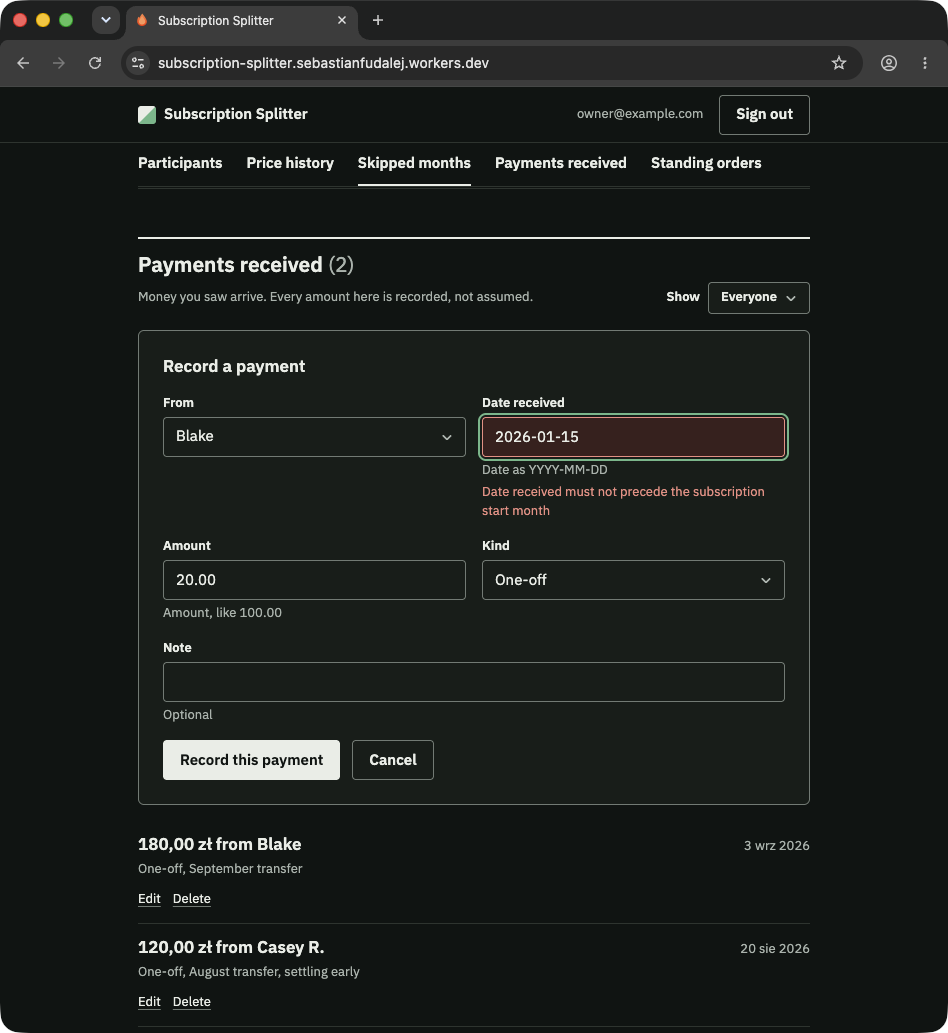
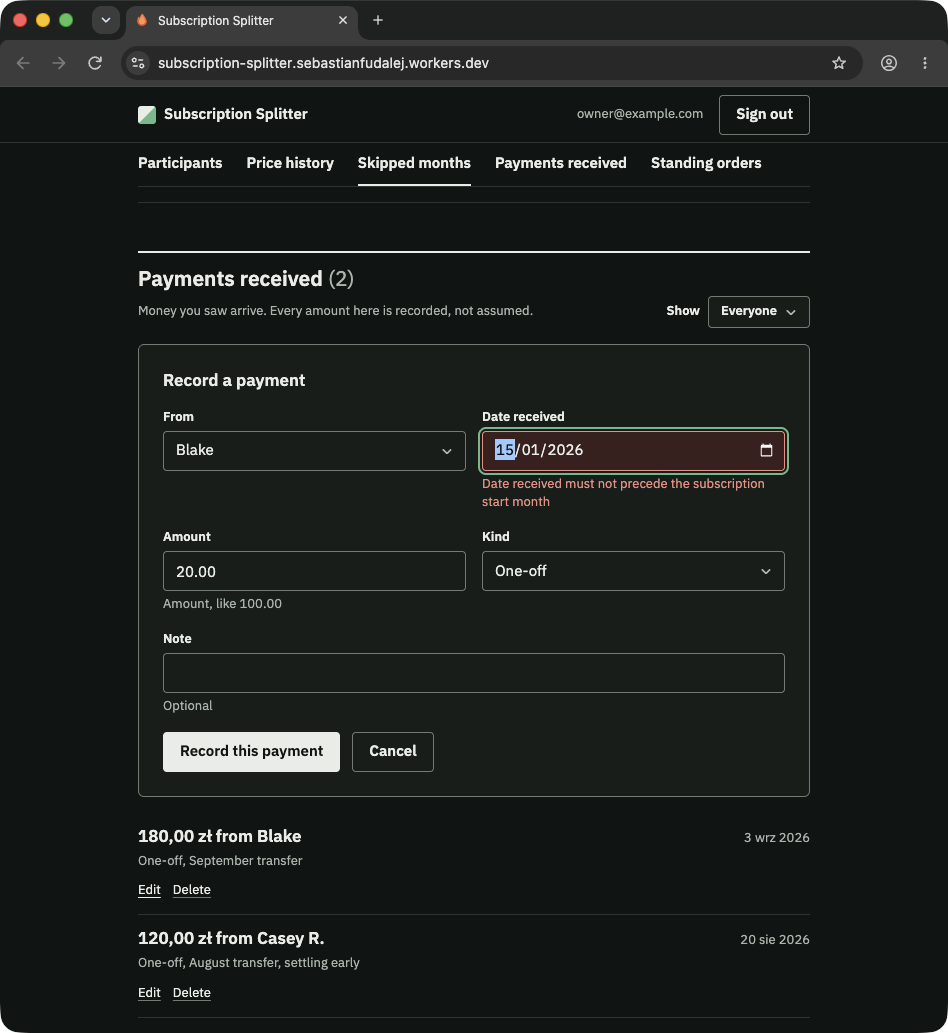
docs(evidence): refresh certification captures for release 5
Claude-Session: https://claude.ai/code/session_01MFSG2RJrQ2hG8y7R7VLiyG

diff --git a/evidence/runs/release-5-captures.md b/evidence/runs/release-5-captures.md
@@ -1,0 +1,78 @@
+# Release 5: refreshing the certification captures
+
+`docs/SUBMISSION-PACKAGE.md` section 10 lists ten certification captures. `evidence/runs/release-5.md`
+names five of them as showing a screen that change `S-08 subscription-management-and-date-inputs`
+alters. This pass retook those five against release 5 and left the other five alone, because the
+screens they show are unchanged.
+
+- **Release SHA**: `91ce0daa469df960097398ce756730f97845e647` (`91ce0da`)
+- **Cloudflare version**: `751a8bfd-e62a-4c9a-beb2-1953eb6a7656`, superseding release 4's
+  `1d0f71c1-6832-4bc1-aace-5feef621e715`
+- **Live URL**: https://subscription-splitter.sebastianfudalej.workers.dev
+
+## The served bundle is release 5's
+
+Read from inside the page that was captured, rather than from a separate request made elsewhere:
+
+```
+GET /  (cache: no-store)          200
+assets referenced by index.html   /assets/index-D-QEf8bX.js, /assets/index-CtqqFhDM.css
+```
+
+Those are the two content-addressed names release 5's own clean-clone build emitted and the deploy
+uploaded, both recorded in `evidence/runs/release-5.md`. Release 4's bundle carries neither. The four
+browser captures below were taken from the page this check ran in, so they are captures of this
+release rather than of a cached predecessor.
+
+## Method, unchanged from release 4
+
+Nine of the ten captures are browser captures from the live URL at 948 by 1033 with the address bar
+visible, in the dark palette the machine's appearance selects, each a capture of a single window by
+its window id so nothing else on the machine is in frame. The tenth,
+`release-05-tests-passing.png`, is a Terminal window capture from a throwaway clone checked out at the
+release SHA. Each window was moved to the floating layout before being sized, as releases 2 and 4
+recorded. Scroll positions were composed to sit where the release 4 files sit, so each manifest
+description still holds.
+
+The owner account signed in through the real form. No password, token or session cookie appears in any
+capture; the two synthetic account addresses are visible, which is deliberate and unchanged since
+release 1.
+
+## The five refreshed captures
+
+| File | Dimensions | Bytes | What it shows |
+|---|---|---|---|
+| `release-03-input-record-payment.png` | 948 by 1033 | 115,950 | The payment panel open under its heading, fields filled before submitting. "Date received" is now a native browser date control showing `08/09/2026` with its calendar affordance, and the old "Date as YYYY-MM-DD" hint is gone |
+| `release-04-output-balances.png` | 948 by 1033 | 128,935 | The detail header with the new action row, "Edit subscription" and "Delete subscription", beneath the subtitle line, above the leading figure in red, the four ledger cards, the net-cost sentence and both participants |
+| `release-05-tests-passing.png` | 1336 by 1225 | 121,886 | A real Terminal window in the clean clone at `91ce0da`: the full SHA, an empty `git status --porcelain`, a clean typecheck across three projects, unit 22 files / 262 tests, integration 13 files / 131 tests, and the SHA echoed again at the end |
+| `release-06-members-and-prices.png` | 948 by 1033 | 103,614 | Casey R.'s open edit panel with both active-month fields now native month controls, reading "March 2026" and "June 2026" where release 4 showed `2026-03` and `2026-06` as plain text under a format hint, above the price history with its change |
+| `release-08-error-before-start-month.png` | 948 by 1033 | 113,583 | The refused payment: a native date control reading `15/01/2026` taking `aria-invalid`, the sentence "Date received must not precede the subscription start month" beneath it, and both stored payments untouched below |
+
+## The five left as they were
+
+`release-01-login.png`, `release-02-home.png`, `release-07-recurring-assumed-received.png`,
+`release-09-reviewer-sees-nothing.png` and `release-10-narrow-phone.png`. Each shows a screen
+`evidence/runs/release-5.md` reads off the change's own client diff as unaltered, so retaking them
+would produce a different file that says the same thing. They stand as taken against release 4 and the
+manifest now says so per row rather than claiming a single retake date for the set.
+
+`release-05-tests-passing.png` came back at 1336 by 1225 where release 4's file was 1340 by 1230. The
+window is the same 188 by 84 Terminal window; the four and five pixels are the capture's own border
+allowance, not a different framing. The manifest records the measured figure.
+
+## Nothing live was changed
+
+The captures were composed by opening forms and cancelling them. One payment was submitted
+deliberately and refused, which stores nothing, and that refusal is the capture in slot 12. Nothing was
+saved, nothing was deleted, and the owner's subscription list held the same two records with the same
+names before and after: "First deployment artefact (not the demo plan)" and "Family music plan". The
+demo plan's figures on screen are the release 1 baseline, unchanged: owed 39,99 zł, 60,00 zł per person,
+210,00 zł collected, two active participants, Blake owing and Casey R. ahead.
+
+## Manifest
+
+`docs/SUBMISSION-PACKAGE.md` section 10 and the matching rows in `docs/SUBMISSION-CHECK.md` were
+updated from this pass: the release identity, the CI run id, the two gate counts, the per-row byte
+sizes and the totals. The ten files now weigh 990,732 bytes, 486,856 in the five required slots and
+503,876 in the five optional ones. Nothing was uploaded, attached or submitted, and the owner-decision
+placeholders and the upload-confirmation line were left exactly as they were.

diff --git a/context/checkpoints/release-5-captures.md b/context/checkpoints/release-5-captures.md
@@ -1,0 +1,45 @@
+# Checkpoint: release-5-captures
+
+- **Task**: refreshing the certification captures for release 5 (change
+  `subscription-management-and-date-inputs`, S-08, parent goal M06)
+- **Model**: Opus
+- **Status**: complete. Five captures refreshed, five deliberately left alone, both course-workspace
+  documents updated, no defect found
+- **Release SHA**: `91ce0daa469df960097398ce756730f97845e647` (`91ce0da`)
+- **Cloudflare version id**: `751a8bfd-e62a-4c9a-beb2-1953eb6a7656`
+- **Parent commit**: `cf928cf`, the tip of `origin/main` after release 5's record landed
+
+## What was done
+
+1. Confirmed from inside the captured page that the live root serves `index-CtqqFhDM.css` and
+   `index-D-QEf8bX.js`, the two asset names release 5's clean-clone build emitted. Release 4's bundle
+   carries neither, so the screens captured are this release's.
+2. Retook `release-03-input-record-payment.png`, `release-04-output-balances.png`,
+   `release-06-members-and-prices.png` and `release-08-error-before-start-month.png` as 948 by 1033
+   window captures of a real Chrome window against the live URL, in the dark palette, with the address
+   bar visible, composed to sit where release 4's files sit.
+3. Retook `release-05-tests-passing.png` as a 1336 by 1225 Terminal window capture in the throwaway
+   clone at the release SHA, showing the full SHA, an empty working tree, a clean typecheck, unit 22
+   files / 262 tests and integration 13 files / 131 tests.
+4. Left `release-01`, `release-02`, `release-07`, `release-09` and `release-10` untouched. Each shows a
+   screen `evidence/runs/release-5.md` reads off the client diff as unaltered.
+5. Updated `docs/SUBMISSION-PACKAGE.md` and `docs/SUBMISSION-CHECK.md` in the course workspace, which
+   is not under version control: the release identity throughout, the CI run id, both comment drafts'
+   SHA and counts in Polish and in English, section 10's per-row byte sizes and totals, and release 4
+   relabelled as history beside releases 2 and 3. The owner-decision placeholders and the
+   upload-confirmation line were not touched, and nothing was uploaded.
+6. Wrote `evidence/runs/release-5-captures.md`.
+
+## What was not changed live
+
+Forms were opened and cancelled. One payment was submitted and refused, which stores nothing and is
+itself the capture in slot 12. The owner's list held the same two subscriptions with the same names
+before and after, and the demo plan's summary figures are the release 1 baseline.
+
+## What remains
+
+- `GOALS.md` F01's final audit was last run at release 4 and has not been re-run against release 5.
+  `docs/SUBMISSION-CHECK.md` now says so rather than calling the audit current.
+- The goal-box updates for S-08 and M06 go to the designated status writer. This task edits neither
+  `GOALS.md`, `context/STATUS.md`, `evidence/index.md` nor the work log.
+- The change is not archived. `change.md` reads `implemented`.
